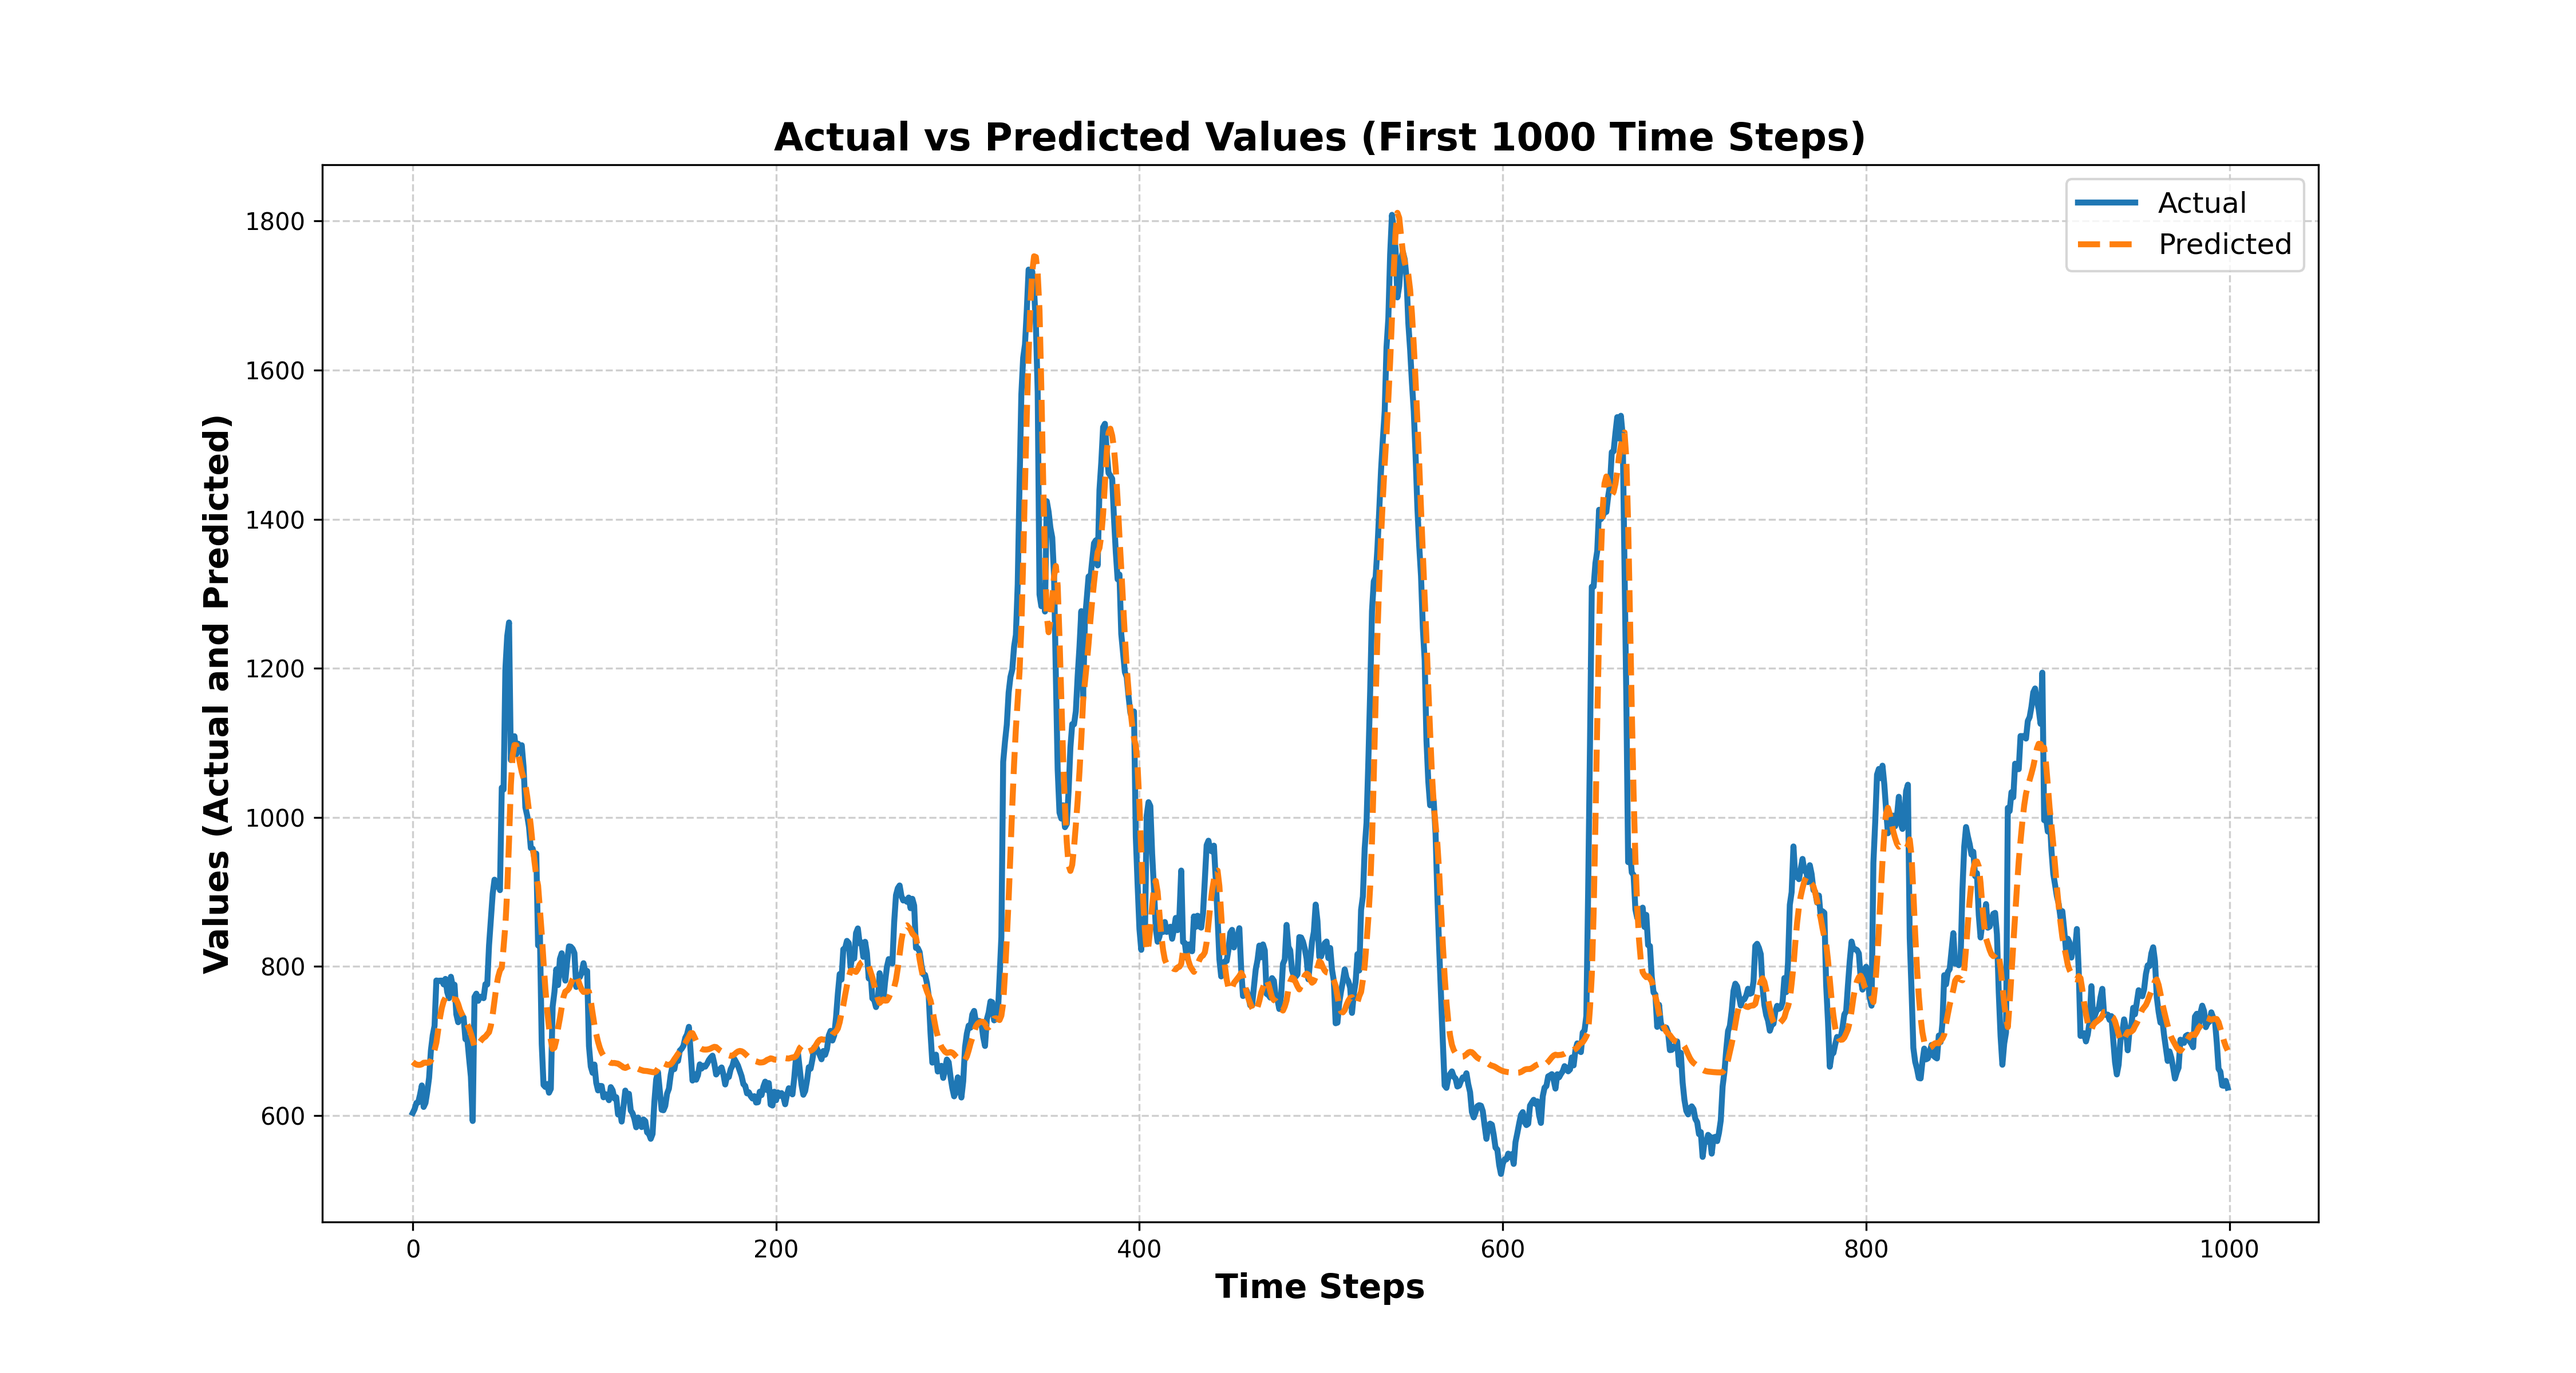
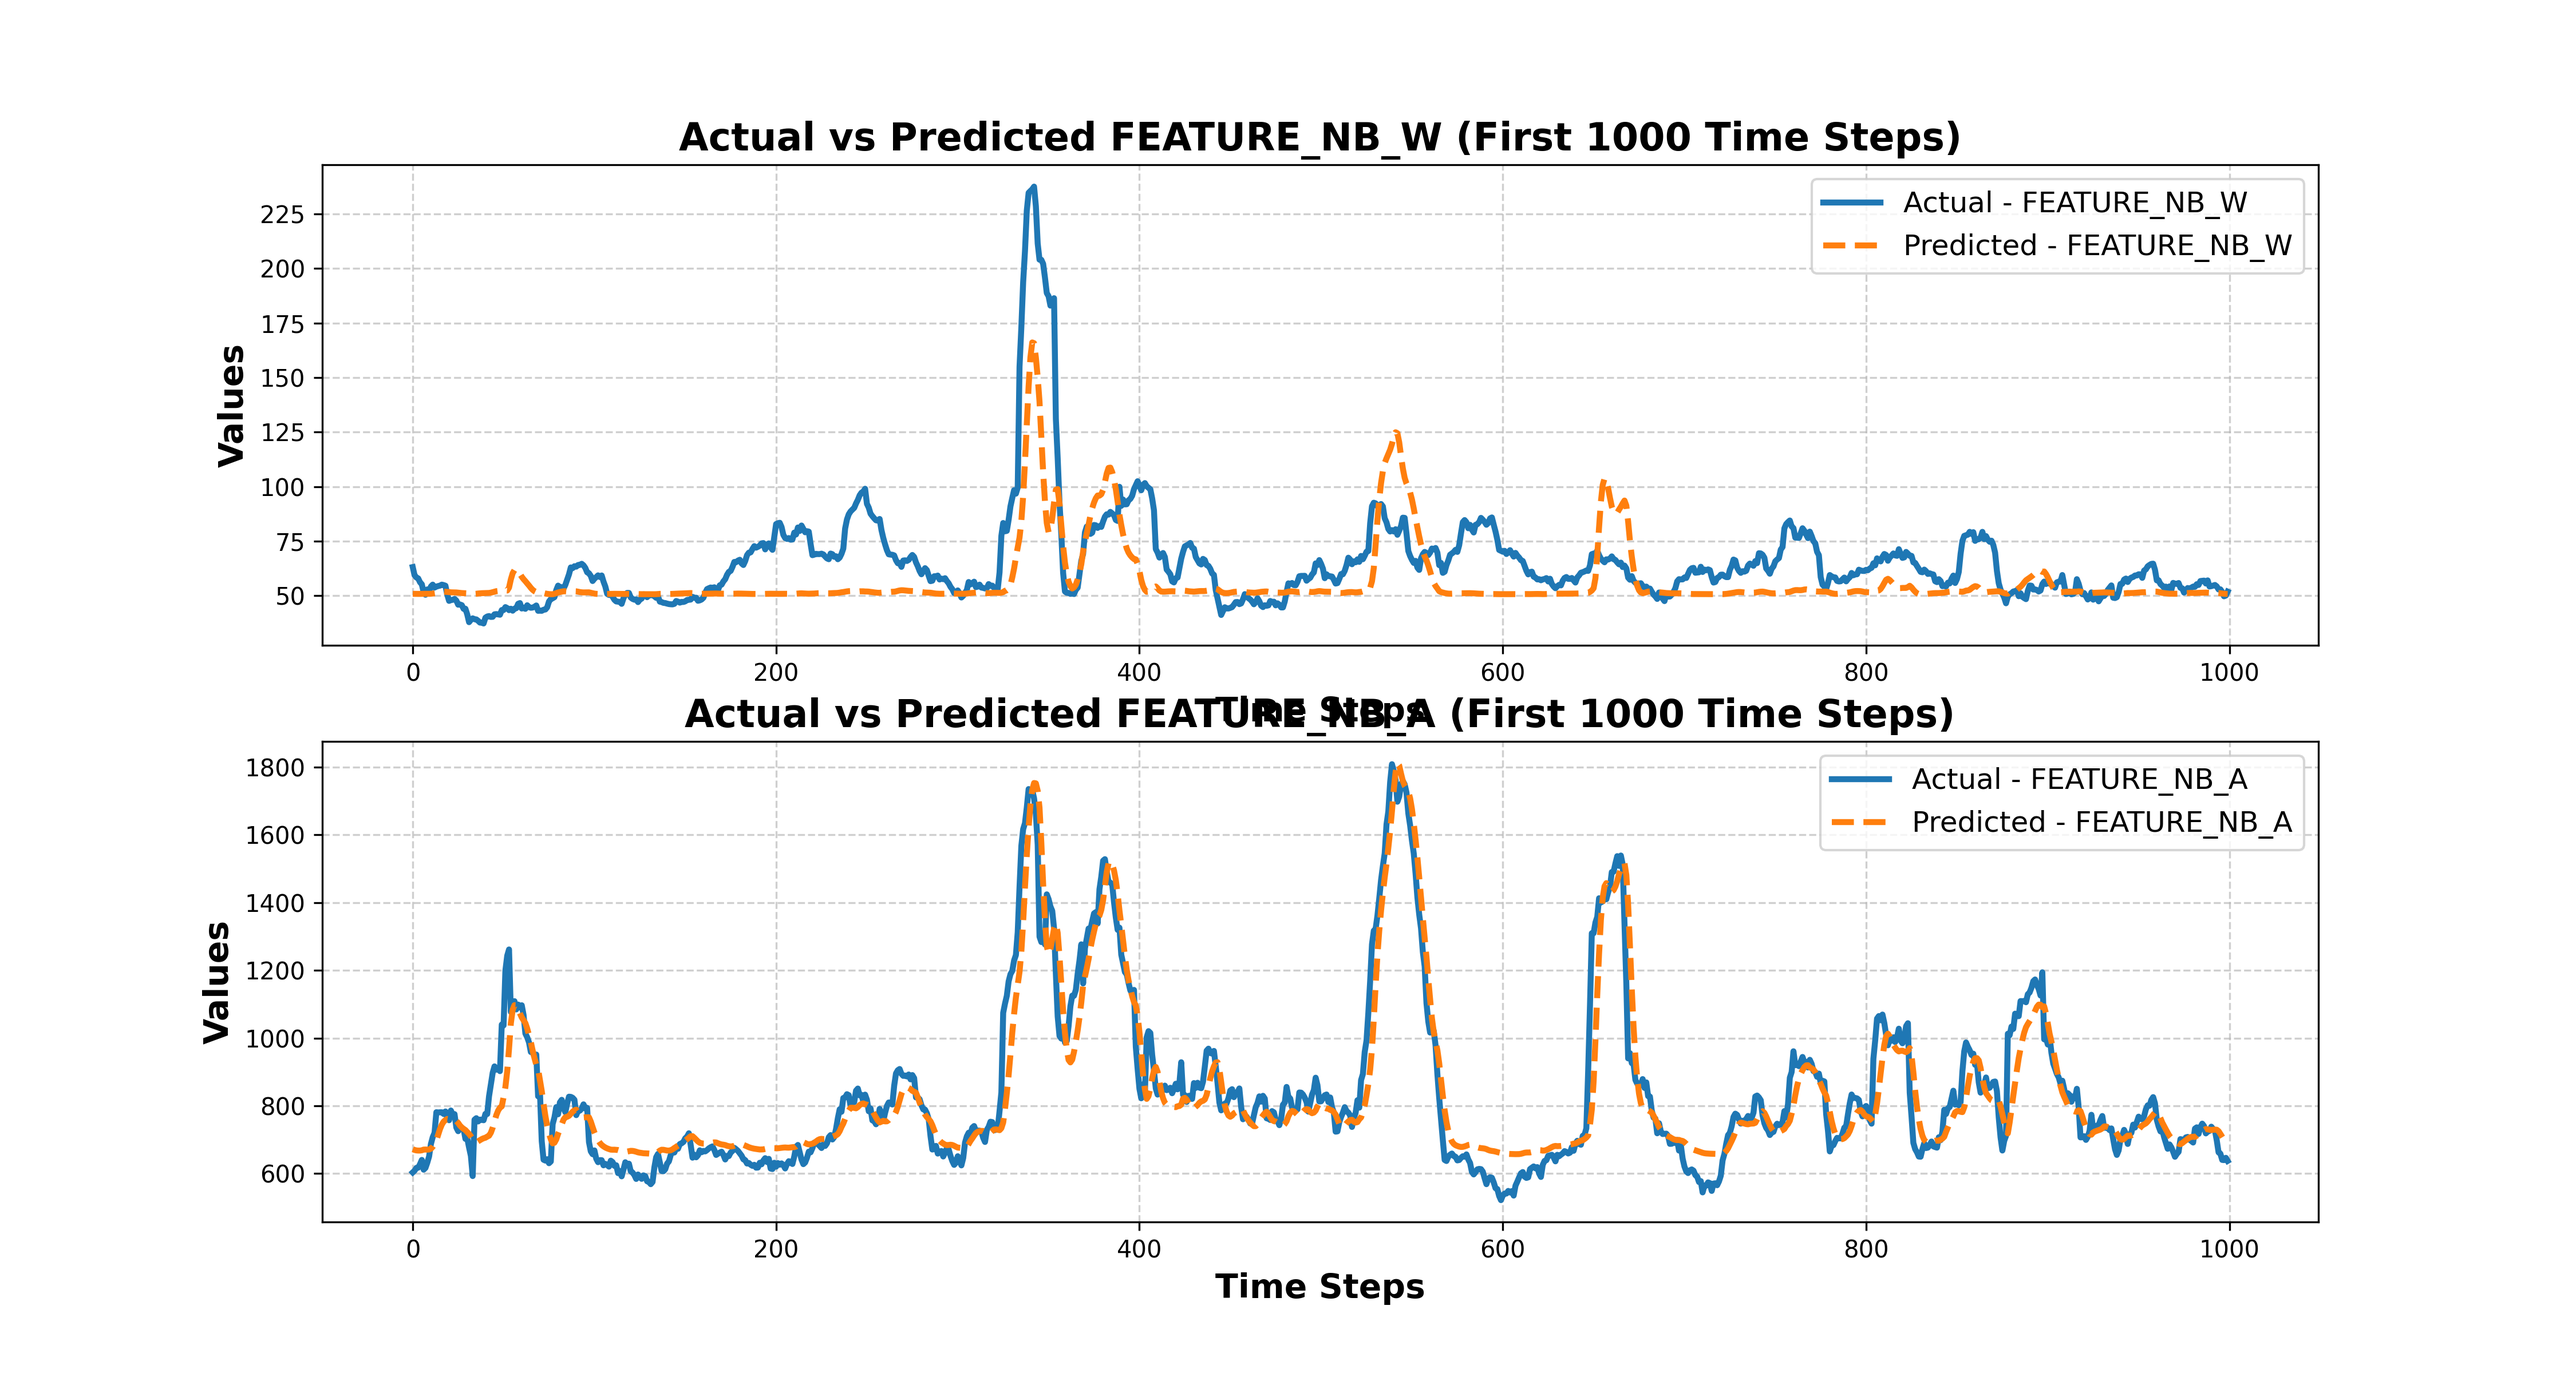
add 2 plots

diff --git a/g3_lstm_predict.py b/g3_lstm_predict.py
@@ -65,19 +65,29 @@ plt.figure(figsize=(15, 8))
 NUM_PLOTS = Constants.PLOT_WINDOW
 
 time_steps = range(NUM_PLOTS)
-actuals = y_test_actual[:NUM_PLOTS, 0]
-preds = predictions_actual[:NUM_PLOTS, 0]
+actuals_nb_w = y_test_actual[:NUM_PLOTS, 1]
+preds_nb_w = predictions_actual[:NUM_PLOTS, 1]
+actuals_nb_a = y_test_actual[:NUM_PLOTS, 0]
+preds_nb_a = predictions_actual[:NUM_PLOTS, 0]
 
-plt.plot(time_steps, actuals, label='Actual', color='#1f77b4', linewidth=2.5)
-plt.plot(time_steps, preds, label='Predicted', color='#ff7f0e', linestyle='--', linewidth=2.5)
-
+plt.subplot(2, 1, 1)
+plt.plot(time_steps, actuals_nb_w, label='Actual - FEATURE_NB_W', color='#1f77b4', linewidth=2.5)
+plt.plot(time_steps, preds_nb_w, label='Predicted - FEATURE_NB_W', color='#ff7f0e', linestyle='--', linewidth=2.5)
 plt.xlabel('Time Steps', fontsize=14, fontweight='bold')
-plt.ylabel('Values (Actual and Predicted)', fontsize=14, fontweight='bold')
-plt.title(f'Actual vs Predicted Values (First {NUM_PLOTS} Time Steps)', fontsize=16, fontweight='bold')
+plt.ylabel('Values', fontsize=14, fontweight='bold')
+plt.title(f'Actual vs Predicted FEATURE_NB_W (First {NUM_PLOTS} Time Steps)', fontsize=16, fontweight='bold')
+plt.legend(fontsize=12)
+plt.grid(True, linestyle='--', alpha=0.6)
+
+plt.subplot(2, 1, 2)
+plt.plot(time_steps, actuals_nb_a, label='Actual - FEATURE_NB_A', color='#1f77b4', linewidth=2.5)
+plt.plot(time_steps, preds_nb_a, label='Predicted - FEATURE_NB_A', color='#ff7f0e', linestyle='--', linewidth=2.5)
+plt.xlabel('Time Steps', fontsize=14, fontweight='bold')
+plt.ylabel('Values', fontsize=14, fontweight='bold')
+plt.title(f'Actual vs Predicted FEATURE_NB_A (First {NUM_PLOTS} Time Steps)', fontsize=16, fontweight='bold')
 plt.legend(fontsize=12)
 plt.grid(True, linestyle='--', alpha=0.6)
 
 os.makedirs('prediction_results', exist_ok=True)
 plt.savefig(f'prediction_results/g3_test_predictions_{Constants.TIME_WINDOW}.png', dpi=300)
 plt.close()
-
